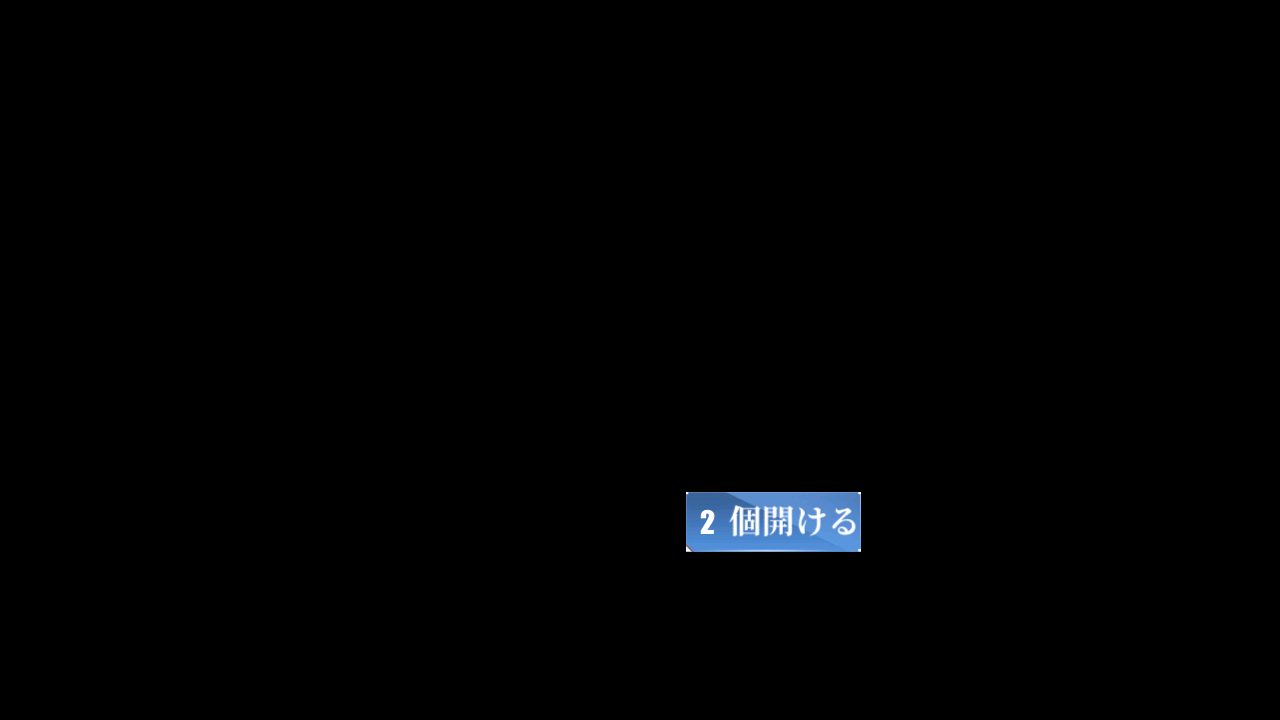
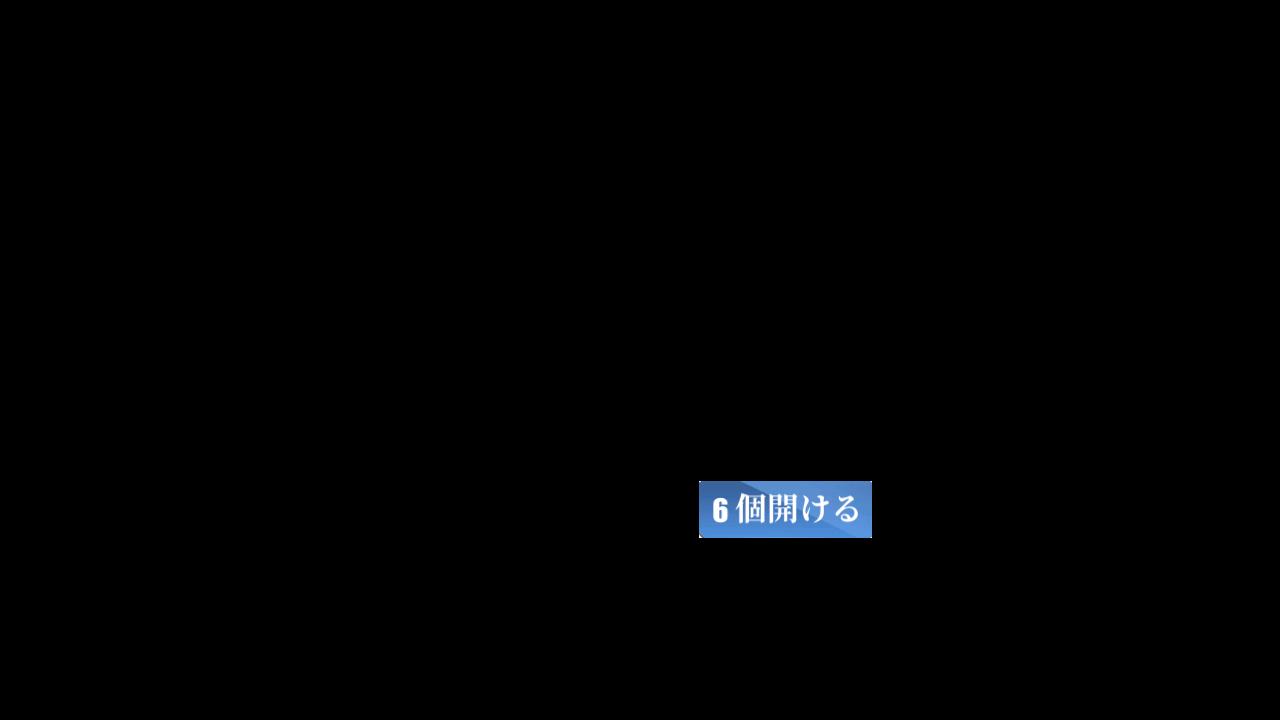
Upd: [JP] STORAGE_USE

Changed region(s): [[0.5312, 0.6417, 0.6875, 0.7639]]

diff --git a/module/os_handler/assets.py b/module/os_handler/assets.py
@@ -62,7 +62,7 @@ SHOP_YELLOW_COINS = Button(area={'cn': (1038, 27, 1128, 48), 'en': (1038, 27, 11
 STORAGE_CHECK = Button(area={'cn': (122, 15, 203, 40), 'en': (139, 14, 254, 41), 'jp': (120, 14, 212, 40), 'tw': (121, 14, 205, 40)}, color={'cn': (162, 178, 214), 'en': (107, 121, 161), 'jp': (97, 108, 143), 'tw': (163, 178, 213)}, button={'cn': (122, 15, 203, 40), 'en': (139, 14, 254, 41), 'jp': (120, 14, 212, 40), 'tw': (121, 14, 205, 40)}, file={'cn': './assets/cn/os_handler/STORAGE_CHECK.png', 'en': './assets/en/os_handler/STORAGE_CHECK.png', 'jp': './assets/jp/os_handler/STORAGE_CHECK.png', 'tw': './assets/tw/os_handler/STORAGE_CHECK.png'})
 STORAGE_COORDINATE_CHECKOUT = Button(area={'cn': (554, 493, 726, 550), 'en': (560, 495, 725, 549), 'jp': (562, 492, 728, 552), 'tw': (555, 493, 725, 551)}, color={'cn': (92, 141, 203), 'en': (98, 146, 206), 'jp': (92, 142, 204), 'tw': (92, 142, 204)}, button={'cn': (554, 493, 726, 550), 'en': (560, 495, 725, 549), 'jp': (562, 492, 728, 552), 'tw': (555, 493, 725, 551)}, file={'cn': './assets/cn/os_handler/STORAGE_COORDINATE_CHECKOUT.png', 'en': './assets/en/os_handler/STORAGE_COORDINATE_CHECKOUT.png', 'jp': './assets/jp/os_handler/STORAGE_COORDINATE_CHECKOUT.png', 'tw': './assets/tw/os_handler/STORAGE_COORDINATE_CHECKOUT.png'})
 STORAGE_ENTER = Button(area={'cn': (770, 636, 880, 699), 'en': (761, 640, 876, 695), 'jp': (757, 636, 880, 699), 'tw': (618, 638, 725, 698)}, color={'cn': (240, 199, 121), 'en': (238, 191, 115), 'jp': (237, 187, 100), 'tw': (240, 197, 125)}, button={'cn': (770, 636, 880, 699), 'en': (761, 640, 876, 695), 'jp': (757, 636, 880, 699), 'tw': (618, 638, 725, 698)}, file={'cn': './assets/cn/os_handler/STORAGE_ENTER.png', 'en': './assets/en/os_handler/STORAGE_ENTER.png', 'jp': './assets/jp/os_handler/STORAGE_ENTER.png', 'tw': './assets/tw/os_handler/STORAGE_ENTER.png'})
-STORAGE_USE = Button(area={'cn': (709, 506, 769, 536), 'en': (729, 509, 786, 533), 'jp': (764, 506, 856, 536), 'tw': (709, 506, 769, 536)}, color={'cn': (161, 186, 220), 'en': (164, 189, 222), 'jp': (142, 178, 224), 'tw': (161, 186, 220)}, button={'cn': (687, 493, 860, 550), 'en': (693, 495, 858, 549), 'jp': (686, 492, 861, 552), 'tw': (687, 493, 860, 550)}, file={'cn': './assets/cn/os_handler/STORAGE_USE.png', 'en': './assets/en/os_handler/STORAGE_USE.png', 'jp': './assets/jp/os_handler/STORAGE_USE.png', 'tw': './assets/tw/os_handler/STORAGE_USE.png'})
+STORAGE_USE = Button(area={'cn': (709, 506, 769, 536), 'en': (729, 509, 786, 533), 'jp': (769, 494, 858, 523), 'tw': (709, 506, 769, 536)}, color={'cn': (161, 186, 220), 'en': (164, 189, 222), 'jp': (141, 177, 223), 'tw': (161, 186, 220)}, button={'cn': (687, 493, 860, 550), 'en': (693, 495, 858, 549), 'jp': (699, 481, 872, 538), 'tw': (687, 493, 860, 550)}, file={'cn': './assets/cn/os_handler/STORAGE_USE.png', 'en': './assets/en/os_handler/STORAGE_USE.png', 'jp': './assets/jp/os_handler/STORAGE_USE.png', 'tw': './assets/tw/os_handler/STORAGE_USE.png'})
 STORATE_SCROLL = Button(area={'cn': (1256, 102, 1264, 589), 'en': (1256, 102, 1264, 589), 'jp': (1256, 102, 1264, 589), 'tw': (1256, 102, 1264, 589)}, color={'cn': (119, 109, 60), 'en': (119, 109, 60), 'jp': (119, 109, 60), 'tw': (119, 109, 60)}, button={'cn': (1256, 102, 1264, 589), 'en': (1256, 102, 1264, 589), 'jp': (1256, 102, 1264, 589), 'tw': (1256, 102, 1264, 589)}, file={'cn': './assets/cn/os_handler/STORATE_SCROLL.png', 'en': './assets/en/os_handler/STORATE_SCROLL.png', 'jp': './assets/jp/os_handler/STORATE_SCROLL.png', 'tw': './assets/tw/os_handler/STORATE_SCROLL.png'})
 STRATEGIC_SEARCH_DEVICE_CHECK = Button(area={'cn': (471, 340, 553, 360), 'en': (409, 295, 466, 308), 'jp': (407, 293, 553, 315), 'tw': (475, 332, 556, 354)}, color={'cn': (147, 152, 163), 'en': (141, 148, 159), 'jp': (118, 125, 139), 'tw': (141, 147, 159)}, button={'cn': (471, 340, 553, 360), 'en': (409, 295, 466, 308), 'jp': (407, 293, 553, 315), 'tw': (475, 332, 556, 354)}, file={'cn': './assets/cn/os_handler/STRATEGIC_SEARCH_DEVICE_CHECK.png', 'en': './assets/en/os_handler/STRATEGIC_SEARCH_DEVICE_CHECK.png', 'jp': './assets/jp/os_handler/STRATEGIC_SEARCH_DEVICE_CHECK.png', 'tw': './assets/tw/os_handler/STRATEGIC_SEARCH_DEVICE_CHECK.png'})
 STRATEGIC_SEARCH_DEVICE_CONTINUE = Button(area={'cn': (516, 380, 536, 394), 'en': (546, 330, 563, 347), 'jp': (546, 334, 568, 350), 'tw': (516, 380, 536, 394)}, color={'cn': (95, 134, 74), 'en': (86, 119, 67), 'jp': (91, 125, 75), 'tw': (95, 134, 74)}, button={'cn': (516, 380, 536, 394), 'en': (546, 330, 563, 347), 'jp': (546, 334, 568, 350), 'tw': (516, 380, 536, 394)}, file={'cn': './assets/cn/os_handler/STRATEGIC_SEARCH_DEVICE_CONTINUE.png', 'en': './assets/en/os_handler/STRATEGIC_SEARCH_DEVICE_CONTINUE.png', 'jp': './assets/jp/os_handler/STRATEGIC_SEARCH_DEVICE_CONTINUE.png', 'tw': './assets/cn/os_handler/STRATEGIC_SEARCH_DEVICE_CONTINUE.png'})
